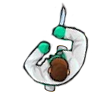
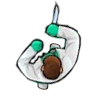
Fixed the positioning of the animations in relation to self.pos

Changed region(s): [[0.1429, 0.0, 0.8286, 0.8571]]

diff --git a/21 - DOC - Custom Project D Level/Assassin/assassin.py b/21 - DOC - Custom Project D Level/Assassin/assassin.py
@@ -100,19 +100,20 @@ class Assassin(object):
         if event == 'kill':
             self.volume += 15
 
-        print(self.volume)
-
     def render(self):
         ''' Draw the Assassin'''
+        angle = self.heading.angle('deg') + 90
+        x_val = self.pos.x - (self.char.width/2 * cos(angle * pi/180))
+        y_val = self.pos.y + (self.char.height/2 * sin(angle * pi/180))
         if self.path._pts:
             # Walking animation
-            self.walking.update(x=self.pos.x+self.char.width/2,y=self.pos.y+self.char.height/2,rotation=self.heading.angle('deg') + 90,scale=self.world.graph.grid_size/self.char.height)
+            self.walking.update(x=x_val,y=y_val,rotation=angle)
             self.walking.draw()
             # Path
             self.path.render()
         else:
             # Still
-            self.still.update(x=self.pos.x+self.char.width/2,y=self.pos.y+self.char.height/2,rotation=self.heading.angle('deg') + 90,scale=self.world.graph.grid_size/self.char.height)
+            self.still.update(x=x_val,y=y_val,rotation=angle)
             self.still.draw()
 
     def speed(self):

diff --git a/21 - DOC - Custom Project D Level/Assassin/guard.py b/21 - DOC - Custom Project D Level/Assassin/guard.py
@@ -87,15 +87,16 @@ class Guard(object):
 
     def render(self, color=None):
         ''' Draw the Guard'''
+        angle = self.heading.angle('deg') + 90
+        x_val = self.pos.x - (self.char.width/2 * cos(angle * pi/180))
+        y_val = self.pos.y + (self.char.height/2 * sin(angle * pi/180))
         if self.mode is not None:
-            self.walking.update(x=self.pos.x+self.char.width/2,y=self.pos.y+self.char.height/2,rotation=self.heading.angle('deg') + 90,scale=self.world.graph.grid_size/self.char.height)
+            self.walking.update(x=x_val,y=y_val,rotation=angle)
             self.walking.draw()
-        else:
-            self.still.update(x=self.pos.x+self.char.width/2,y=self.pos.y+self.char.height/2,rotation=self.heading.angle('deg') + 90,scale=self.world.graph.grid_size/self.char.height)
-            self.still.draw()
-        # Path
-        if self.path._pts:
             self.path.render()
+        else:
+            self.still.update(x=x_val,y=y_val,rotation=angle)
+            self.still.draw()
 
         self.weapon.render()
 

diff --git a/16 - Spike - Goal Oriented Action Planning/Soldier on Patrol (GOAP)/main.py b/16 - Spike - Goal Oriented Action Planning/Soldier on Patrol (GOAP)/main.py
@@ -27,9 +27,6 @@ def on_key_press(symbol, modifiers):
         world.paused = not world.paused
     elif symbol == KEY.A:
         world.agents.append(Agent(world))
-    elif symbol == KEY.R:
-        for agent in world.agents:
-            agent.weapon.reloading = not agent.weapon.reloading
     elif symbol == KEY.I:
         for agent in world.agents:
             agent.show_info = not agent.show_info

diff --git a/21 - DOC - Custom Project D Level/Assassin/main.py b/21 - DOC - Custom Project D Level/Assassin/main.py
@@ -8,6 +8,7 @@ from block import Block
 from point2d import Point2D
 from assassin import Assassin
 from guard import Guard
+from math import pi
 
 SCREEN_WIDTH = 720
 SCREEN_HEIGHT = 720
